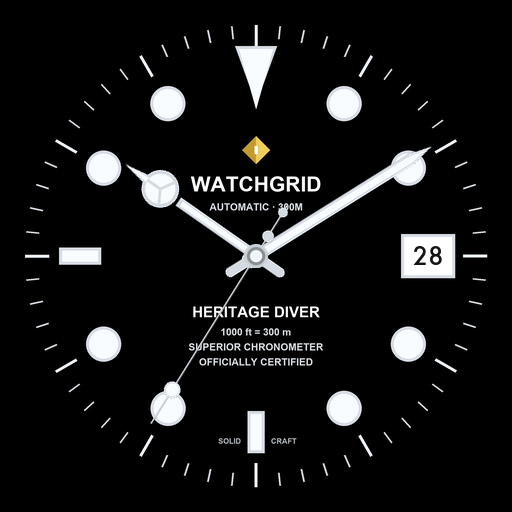
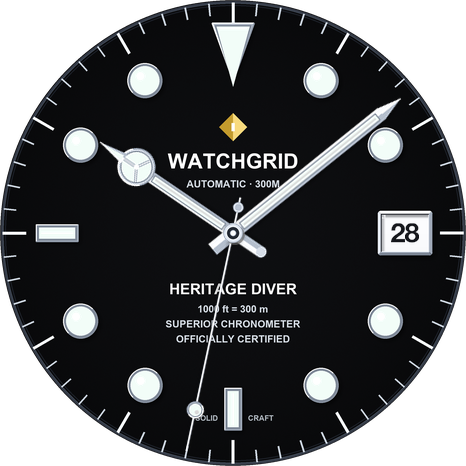
feat(diver): upgrade Heritage Diver 300 to 3D luxury finish and sync catalog

diff --git a/README.md b/README.md
@@ -33,7 +33,7 @@
 ### 1. Heritage Diver 300 *(Included Free)*
 
 > **Automatic Professional · 300m / 1000ft**  
-> The quintessential luxury maritime diver timepiece. Features an obsidian Maxi dial, bold luminescent geometric hour markers, classic Mercedes hands, and a 3 o'clock cyclops date aperture. Includes the **Watchgrid Companion Phone Studio** for Android.
+> The quintessential luxury maritime diver timepiece upgraded with 3D diamond-cut applied Maxi indices, recessed Super-LumiNova channels, diamond-beveled date aperture with Swiss bitmap typography, sculpted 3D Mercedes hands, and 18k luxury metallurgy. Includes the **Watchgrid Companion Phone Studio** for Android.
 
 <table>
   <tr>
